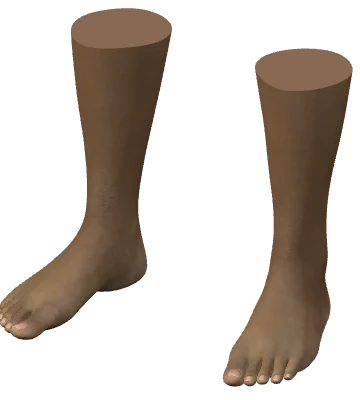
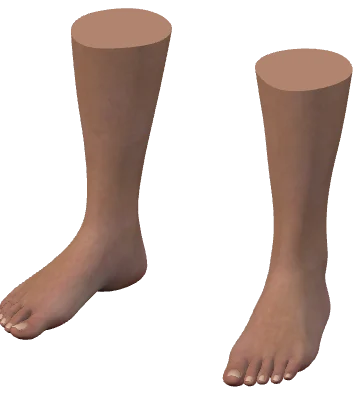
Use independent complexion maps for lighter female feet

Changed region(s): [[0.0, 0.0, 0.4889, 0.84], [0.6111, 0.12, 0.9778, 0.96]]

diff --git a/src/scene/feet/skin-materials.ts b/src/scene/feet/skin-materials.ts
@@ -1,4 +1,5 @@
 import * as THREE from 'three'
+import { footSkinTextureFiles } from '../../catalog/foot-skins.ts'
 import type { FootCatalogId } from '../../domain/catalog.ts'
 import {
   defaultFootSkinTone,
@@ -7,16 +8,38 @@ import {
 } from '../../domain/foot-skin.ts'
 
 /**
- * Recolor only this placement's skin materials. Linear RGB ratios preserve the
- * authored texture's fine color variation, normals and roughness. Toenails and
- * all shared GLB materials/textures stay unchanged. Cleanup restores bindings
- * and releases the small material copies, never the shared texture maps.
+ * Own the material per placement; texture sets stay cached and shared. Lighter
+ * female presets use independent authored maps, not a tint of the tan skin.
+ * Other presets keep their original treatment. Cleanup releases only copies.
  */
+export type FootSkinMaps = {
+  map: THREE.Texture
+  normalMap: THREE.Texture
+  roughnessMap: THREE.Texture
+}
+
+/** External maps follow the GLB's UV orientation and color-space conventions. */
+export function configureFootSkinMaps(textures: readonly THREE.Texture[]): FootSkinMaps | null {
+  if (textures.length === 0) return null
+  if (textures.length !== 3)
+    throw new Error('A foot complexion requires color, normal and roughness maps.')
+  const [map, normalMap, roughnessMap] = textures
+  for (const texture of textures) {
+    texture.flipY = false
+    texture.colorSpace = texture === map ? THREE.SRGBColorSpace : THREE.NoColorSpace
+  }
+  return { map, normalMap, roughnessMap }
+}
+
 export function applyFootSkinTone(
   meshes: readonly THREE.Mesh[],
   catalogId: FootCatalogId,
   skinTone: FootSkinTone,
+  maps: FootSkinMaps | null = null,
 ): () => void {
+  if (footSkinTextureFiles(catalogId, skinTone).length > 0 && !maps) {
+    throw new Error(`Missing complexion textures for ${catalogId}/${skinTone}.`)
+  }
   const sourceTone = new THREE.Color(FOOT_SKIN_PRESETS[defaultFootSkinTone(catalogId)].color)
   const targetTone = new THREE.Color(FOOT_SKIN_PRESETS[skinTone].color)
   const multiplier = new THREE.Color(
@@ -37,7 +60,12 @@ export function applyFootSkinTone(
     let copy = copies.get(skin)
     if (!copy) {
       copy = skin.clone()
-      copy.color.multiply(multiplier)
+      if (maps) {
+        copy.map = maps.map
+        copy.normalMap = maps.normalMap
+        copy.roughnessMap = maps.roughnessMap
+        copy.color.setRGB(1, 1, 1)
+      } else copy.color.multiply(multiplier)
       copies.set(skin, copy)
     }
     return copy

diff --git a/src/scene/feet/figures.tsx b/src/scene/feet/figures.tsx
@@ -13,6 +13,7 @@ import { assertFootRig, solveFoot } from '../../kernel/foot.ts'
 import { solverFor, useRigSolvers } from '../rig-cache.ts'
 import { applyPose, rigNode } from '../rigged.ts'
 import { applyFootSkinTone } from './skin-materials.ts'
+import { useFootSkinMaps } from './skin-textures.ts'
 
 /** Gap between the inner edges of the two feet once the authored stance is narrowed. */
 const PAIR_GAP_M = 0.05
@@ -57,6 +58,7 @@ function LoadingSilhouette({ scale }: { scale: number }) {
 
 function FootModel({ app, draw }: FigureProps) {
   const scene = useModelScene(draw.model)
+  const skinMaps = useFootSkinMaps(draw.catalogId, draw.skinTone)
   const solvers = useRigSolvers(draw.model)
   const rig = useMemo(() => {
     const pair = {
@@ -77,8 +79,13 @@ function FootModel({ app, draw }: FigureProps) {
 
   useLayoutEffect(
     () =>
-      applyFootSkinTone([...feet.left.meshes, ...feet.right.meshes], draw.catalogId, draw.skinTone),
-    [feet, draw.catalogId, draw.skinTone],
+      applyFootSkinTone(
+        [...feet.left.meshes, ...feet.right.meshes],
+        draw.catalogId,
+        draw.skinTone,
+        skinMaps,
+      ),
+    [feet, draw.catalogId, draw.skinTone, skinMaps],
   )
 
   // The left foot is solved to the shape; the right one mirrors its controls.

diff --git a/src/scene/feet/skin-textures.ts b/src/scene/feet/skin-textures.ts
@@ -1,0 +1,17 @@
+import { useLoader } from '@react-three/fiber'
+import { useMemo } from 'react'
+import * as THREE from 'three'
+import { footSkinTextureFiles } from '../../catalog/foot-skins.ts'
+import type { FootCatalogId } from '../../domain/catalog.ts'
+import type { FootSkinTone } from '../../domain/foot-skin.ts'
+import { configureFootSkinMaps } from './skin-materials.ts'
+
+/** Load only the chosen complexion; identical pairs share the cached maps. */
+export function useFootSkinMaps(catalogId: FootCatalogId, tone: FootSkinTone) {
+  const files = footSkinTextureFiles(catalogId, tone)
+  const textures = useLoader(
+    THREE.TextureLoader,
+    files.map((file) => `${import.meta.env.BASE_URL}skins/${file}`),
+  )
+  return useMemo(() => configureFootSkinMaps(textures), [textures])
+}

diff --git a/src/catalog/foot-skins.ts b/src/catalog/foot-skins.ts
@@ -1,0 +1,8 @@
+import type { FootCatalogId } from '../domain/catalog.ts'
+import type { FootSkinTone } from '../domain/foot-skin.ts'
+
+/** Independent authored complexion maps on the same Genesis 9 UV layout. */
+export function footSkinTextureFiles(catalogId: FootCatalogId, tone: FootSkinTone): string[] {
+  if (catalogId !== 'foot-female' || (tone !== 'white' && tone !== 'asian')) return []
+  return ['color', 'normal', 'roughness'].map((kind) => `female-${tone}-${kind}.webp`)
+}

diff --git a/public/models/ASSET_LICENSES.md b/public/models/ASSET_LICENSES.md
@@ -4,6 +4,8 @@
 
 `female-feet-shins.glb` and `male-feet-shins.glb` are built from the Daz 3D characters **Laura for Genesis 9** and **Matt for Genesis 9** by `tools/assets/build_feet.py`: lower legs cut at mid-shin, subdivided once, with cropped base color, normal, and roughness maps. They are **not** CC0. They are Daz 3D content distributed under the Daz 3D license terms, and the project owner manages that licensing. The Daz source content stays in the local Daz library and never enters git. Their `*.rig.json` files are generated from the GLBs by `scripts/build-feet-assets.mjs`.
 
+The optional female White and Asian complexion maps in `public/skins` are cropped from the installed Genesis 9 **Feminine_02** and **Feminine_01** color, normal and roughness maps respectively, using `scripts/build-foot-skins.mjs`. They follow the same Daz licensing as the existing models. `public/skins/manifest.json` records the source filenames and crop bounds. Reference photographs cited in the visual review are not redistributed in the app.
+
 ## People (Daz 3D Genesis 9)
 
 The six people are built by `tools/assets/build_people.py` from Daz 3D Genesis 9 characters, clothing, and hair. They are **not** CC0. Like the feet, they are Daz 3D and Daz marketplace content distributed under those license terms, and the project owner manages that licensing.
